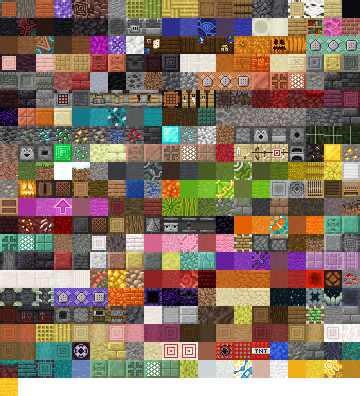
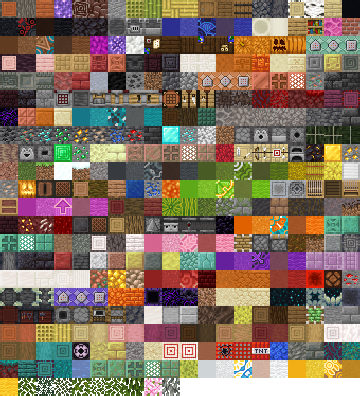
素材：补 9 种树叶方块（图集 421 → 430 格，方块表 342 → 351）
「原木长树叶」需要真的树叶方块，但方块表里一个都没有：原来的 342 种是从 26.2.jar 里
扫「完整立方体」模型来的，而 scan_full_blocks.py 的 EXCLUDE_WORDS 里就写着 leaves
（它们是 cutout 渲染，不是完整不透明立方体）。

改动：
- scan_full_blocks.py 加 LEAF_BLOCKS（9 条手工项），扫完追加在末尾。
  追加而不是插中间：方块编号就是数组下标，插中间会让后面所有编号平移，老存档全废。
- build_full_atlas.py 加 LEAF_TINT：oak/spruce/birch/jungle/acacia/dark_oak/mangrove
  的树叶贴图在原版是灰度的，靠 biome 的 foliage 色上色，不染在游戏里就是灰白一坨。
  樱花和苍白橡树的贴图本身带色，不染。颜色取原版平原 / 各树种的近似值。
- build_place_sfx.py 加 `.*_leaves → grass`：原版树叶是 SoundType.GRASS，
  不加这条会落到兜底的 stone，踩到树叶响成石头。

验证：
- 图集仍是 360×396（20×22），421 个旧格子和旧图集逐像素相同，
  ImageChops.difference 的差异区域只在列 1~9 / 行 21 —— 就是这 9 个新格。
- BlockCatalogData 是 +27 行 0 删除；BlockSfxData 是 +9 行 0 删除，老编号一个没动。

Changed region(s): [[0.0306, 0.9394, 0.5194, 1.0]]

diff --git a/tools/scan_full_blocks.py b/tools/scan_full_blocks.py
@@ -76,6 +76,24 @@ EXCLUDE_WORDS = (
     'barrier', 'light', 'structure_void', 'bedrock',
 )
 
+# 扫描规则排除、但玩法需要用到的方块，扫完追加在末尾。
+# 树叶的模型根是 leaves（不在 CUBE_ROOTS 里），而且 EXCLUDE_WORDS 里就特意排除了 leaves，
+# 所以自动扫描永远扫不到。「原木长树叶」需要真的树叶方块，这里手工补 9 种。
+#
+# 追加在末尾而不是插在中间：方块编号 = 数组下标，插中间会让所有后续方块编号平移，
+# 老存档的网格数据会全变成别的方块。
+LEAF_BLOCKS = [
+    ('oak_leaves', '橡树树叶'),
+    ('spruce_leaves', '云杉树叶'),
+    ('birch_leaves', '白桦树叶'),
+    ('jungle_leaves', '丛林树叶'),
+    ('acacia_leaves', '金合欢树叶'),
+    ('dark_oak_leaves', '深色橡树树叶'),
+    ('mangrove_leaves', '红树树叶'),
+    ('cherry_leaves', '樱花树叶'),
+    ('pale_oak_leaves', '苍白橡树树叶'),
+]
+
 
 def main():
     z = zipfile.ZipFile(JAR)
@@ -272,6 +290,19 @@ def main():
             tint_faces = []
         seq = chain(name) or []
         candidates.append({'name': name, 'zh': zh_name(name), 'root': seq[-1][0] if seq else '', 'faces': faces, 'tint': tint_faces})
+
+    # 手工补的方块（树叶），见文件头 LEAF_BLOCKS 的说明
+    for leaf_name, leaf_zh in LEAF_BLOCKS:
+        if not ('assets/minecraft/textures/block/%s.png' % leaf_name) in names:
+            print('跳过（jar 里没有贴图）: %s' % leaf_name)
+            continue
+        candidates.append({
+            'name': leaf_name,
+            'zh': leaf_zh,
+            'root': 'manual',
+            'faces': {f: leaf_name for f in ('up', 'down', 'north', 'south', 'east', 'west')},
+            'tint': [],
+        })
 
     os.makedirs(os.path.dirname(OUT), exist_ok=True)
     with open(OUT, 'w', encoding='utf-8') as f:

diff --git a/Assets/Scripts/Core/BlockCatalogData.cs b/Assets/Scripts/Core/BlockCatalogData.cs
@@ -353,6 +353,15 @@ namespace MinecraftTetris
             "yellow_glazed_terracotta",
             "yellow_terracotta",
             "yellow_wool",
+            "oak_leaves",
+            "spruce_leaves",
+            "birch_leaves",
+            "jungle_leaves",
+            "acacia_leaves",
+            "dark_oak_leaves",
+            "mangrove_leaves",
+            "cherry_leaves",
+            "pale_oak_leaves",
         };
 
         public static readonly string[] NamesZh =
@@ -699,6 +708,15 @@ namespace MinecraftTetris
             "yellow_glazed_terracotta",
             "yellow_terracotta",
             "yellow_wool",
+            "橡树树叶",
+            "云杉树叶",
+            "白桦树叶",
+            "丛林树叶",
+            "金合欢树叶",
+            "深色橡树树叶",
+            "红树树叶",
+            "樱花树叶",
+            "苍白橡树树叶",
         };
 
         // 每个方块六个面：up, down, north, south, east, west 对应的图集格子编号
@@ -1046,6 +1064,15 @@ namespace MinecraftTetris
             418, 418, 418, 418, 418, 418,
             419, 419, 419, 419, 419, 419,
             420, 420, 420, 420, 420, 420,
+            421, 421, 421, 421, 421, 421,
+            422, 422, 422, 422, 422, 422,
+            423, 423, 423, 423, 423, 423,
+            424, 424, 424, 424, 424, 424,
+            425, 425, 425, 425, 425, 425,
+            426, 426, 426, 426, 426, 426,
+            427, 427, 427, 427, 427, 427,
+            428, 428, 428, 428, 428, 428,
+            429, 429, 429, 429, 429, 429,
         };
     }
 }

diff --git a/tools/build_full_atlas.py b/tools/build_full_atlas.py
@@ -60,6 +60,20 @@ def main():
     if tint_pngs:
         print("tint: %s" % ", ".join(sorted(tint_pngs)))
 
+    # 树叶：原版贴图是灰度图，靠 biome 的 foliage 色上色（和草方块顶面一个道理）。
+    # 不染的话树叶会是灰白的。樱花和苍白橡树的贴图本身带色，不在这个表里。
+    # 颜色取原版平原 / 各树种的近似值。
+    FOLIAGE = (0.47, 0.67, 0.18)      # 橡树 / 丛林 / 金合欢 / 深色橡树 / 红树
+    LEAF_TINT = {
+        "oak_leaves": FOLIAGE,
+        "jungle_leaves": FOLIAGE,
+        "acacia_leaves": FOLIAGE,
+        "dark_oak_leaves": FOLIAGE,
+        "mangrove_leaves": FOLIAGE,
+        "spruce_leaves": (0.38, 0.60, 0.38),
+        "birch_leaves": (0.50, 0.65, 0.33),
+    }
+
     rows = (len(tiles) + COLS - 1) // COLS
     atlas = Image.new("RGBA", (COLS * CELL, rows * CELL), (0, 0, 0, 0))
 
@@ -91,6 +105,13 @@ def main():
             f[:, :, 0] *= WATER_TINT[0]
             f[:, :, 1] *= WATER_TINT[1]
             f[:, :, 2] *= WATER_TINT[2]
+            arr = np.clip(f, 0, 255).astype(np.uint8)
+        if png in LEAF_TINT:
+            t = LEAF_TINT[png]
+            f = arr.astype(np.float32)
+            f[:, :, 0] *= t[0]
+            f[:, :, 1] *= t[1]
+            f[:, :, 2] *= t[2]
             arr = np.clip(f, 0, 255).astype(np.uint8)
         arr = np.pad(arr, ((PAD, PAD), (PAD, PAD), (0, 0)), mode="edge")
         atlas.paste(Image.fromarray(arr), ((i % COLS) * CELL, (i // COLS) * CELL))

diff --git a/Assets/Scripts/Core/BlockSfxData.cs b/Assets/Scripts/Core/BlockSfxData.cs
@@ -551,6 +551,15 @@ namespace MinecraftTetris
             "stone",   // yellow_glazed_terracotta
             "stone",   // yellow_terracotta
             "wool",   // yellow_wool
+            "grass",   // oak_leaves
+            "grass",   // spruce_leaves
+            "grass",   // birch_leaves
+            "grass",   // jungle_leaves
+            "grass",   // acacia_leaves
+            "grass",   // dark_oak_leaves
+            "grass",   // mangrove_leaves
+            "grass",   // cherry_leaves
+            "grass",   // pale_oak_leaves
         };
     }
 }

diff --git a/tools/build_place_sfx.py b/tools/build_place_sfx.py
@@ -125,6 +125,10 @@ RULES = [
     ("pumpkin|carved_pumpkin|jack_o_lantern|melon", "wood"),
     (r".*_log|.*_wood|.*_planks|.*_stem|.*_hyphae", "wood"),
 
+    # 树叶：原版是 SoundType.GRASS（和草方块同一组），哪棵树上长的都一样。
+    # 不写这条会落到兜底的 stone，踩到树叶会响成石头。
+    (r".*_leaves", "grass"),
+
     # 羊毛 / 混凝土 / 陶瓦
     (r".*_wool", "wool"),
     (r".*_concrete_powder", "sand"),
